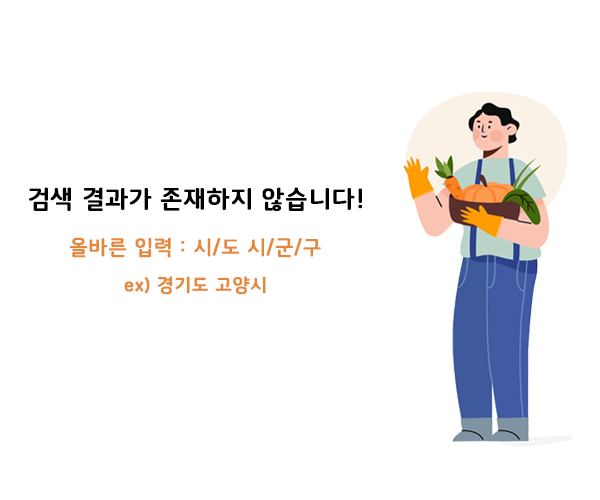
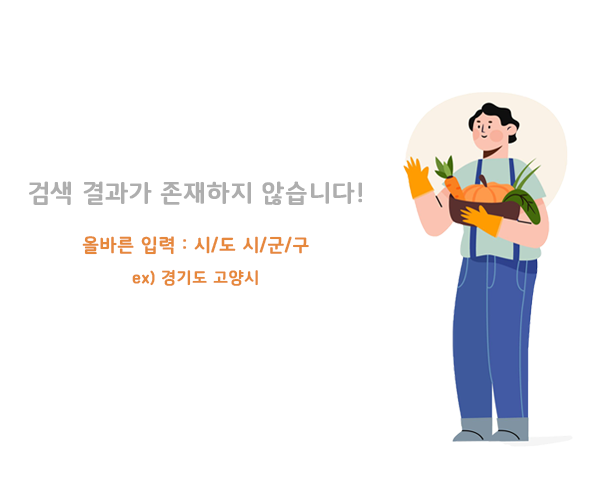
#264-Fix 로컬 푸드 직매장 정보 없는 경우 예외처리

Changed region(s): [[0.03, 0.36, 0.6, 0.42], [0.12, 0.45, 0.54, 0.54], [0.21, 0.54, 0.45, 0.6]]

diff --git a/src/components/units/localfood/list/LocalfoodList.container.tsx b/src/components/units/localfood/list/LocalfoodList.container.tsx
@@ -13,9 +13,15 @@ export default function LocalfoodList() {
   const [text, setText] = useState("");
   const [sorted, setSorted] = useState<string>("최신순");
   useEffect(() => {
-    setStoreId(JSON.parse(sessionStorage.getItem("DirectStoreId") || "").id);
+    // console.log(sessionStorage.getItem("DirectStoreId") || "[]");
+    if (
+      JSON.parse(sessionStorage.getItem("DirectStoreId") || "[]")?.length === 0
+    ) {
+      router.push("/");
+    }
+    setStoreId(JSON.parse(sessionStorage.getItem("DirectStoreId") || "[]").id);
     setStoreName(
-      JSON.parse(sessionStorage.getItem("DirectStoreId") || "").name
+      JSON.parse(sessionStorage.getItem("DirectStoreId") || "[]").name
     );
   }, []);
   const { data, refetch } = useQuery(FETCH_DIRECT_PRODUCTS, {

diff --git a/src/components/commons/layout/header/LayoutHeader.container.tsx b/src/components/commons/layout/header/LayoutHeader.container.tsx
@@ -12,9 +12,9 @@ export default function LayoutHeader() {
   const [token, setToken] = useRecoilState(TokenState);
 
   const [isIn, setIsIn] = useState(false);
-  const CHECK = ["/main"];
+  const CHECK = ["/", "/main"];
   const isCheck = CHECK.includes(router.asPath);
-  const CHECK_LIST = ["/main", "/localfood", "/bfood"];
+  const CHECK_LIST = ["/main", "/localfood", "/bfood", "/"];
   const isCheckList = CHECK_LIST.includes(router.asPath);
   const CHECK_BFOOD = ["/bfood"];
   const isCheckBFood = CHECK_BFOOD.includes(router.asPath);

diff --git a/src/components/units/main/Main.presenter.tsx b/src/components/units/main/Main.presenter.tsx
@@ -54,7 +54,7 @@ export default function MainUI(props: IMainUIProps) {
               >
                 <img
                   style={{ width: "100%" }}
-                  src="/main/NoResultGray.png"
+                  src="/main/NoResult.png"
                   alt="검색결과 없을때 이미지입니다."
                 />
               </div>

diff --git a/src/components/commons/layout/index.tsx b/src/components/commons/layout/index.tsx
@@ -28,6 +28,7 @@ const HIDDEN_FOOTERS = [
 ];
 
 const CHECK = [
+  "/",
   "/main",
   "/users/login",
   "/users/signup",
